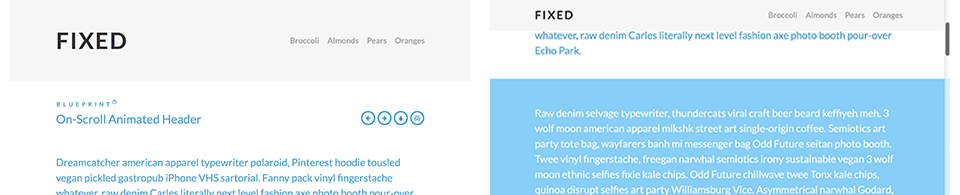
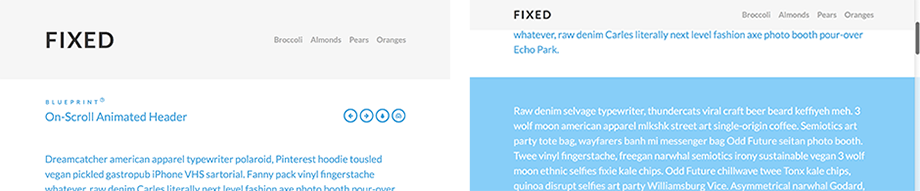
Updated header comparison.png

diff --git a/index.html b/index.html
@@ -30,9 +30,21 @@
 					<h2 class="offPage">email &#183; social &#183; web &#183; life debts</h2>
 				</div>
 			</header>
+
 			<!-- About -->	
 
 			<!-- Blog, Components -->
+
+			<!-- Header Component -->
+			<article id="headerComponent">
+			<img class="headerImg" src="https://github.com/PasqualeFS/wsp_project/blob/gh-pages/images/headerComparison.png?raw=true" />
+			<h2>Target Audience</h2>
+			<p>Lorem Ipsum...</p>
+			<h2>Client/User Needs</h2>
+			<p>Lorem Ipsum...</p>
+			<h2>Critique</h2>
+			<p>Lorem Ipsum...</p>
+			</article>
 		</div>
 	</div>
 </body>
